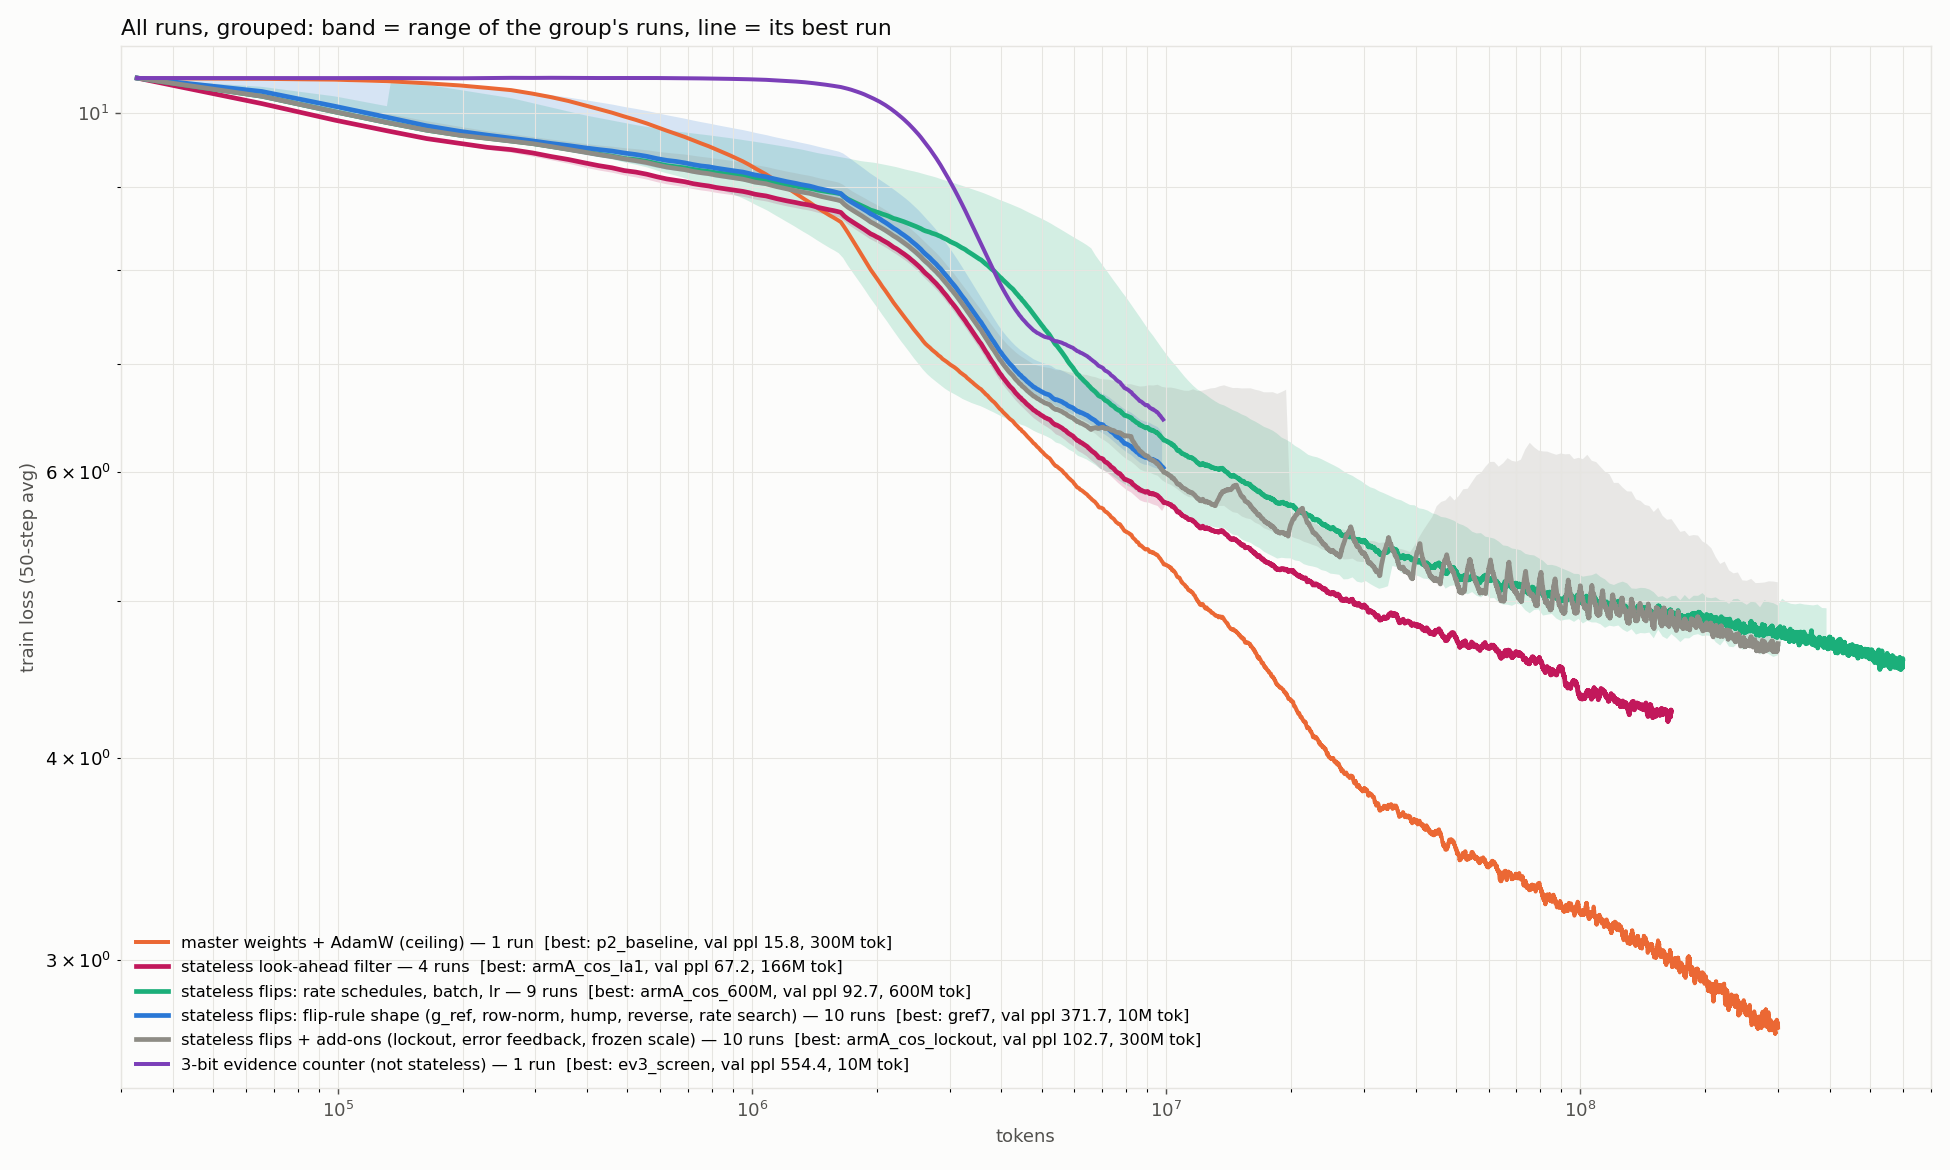
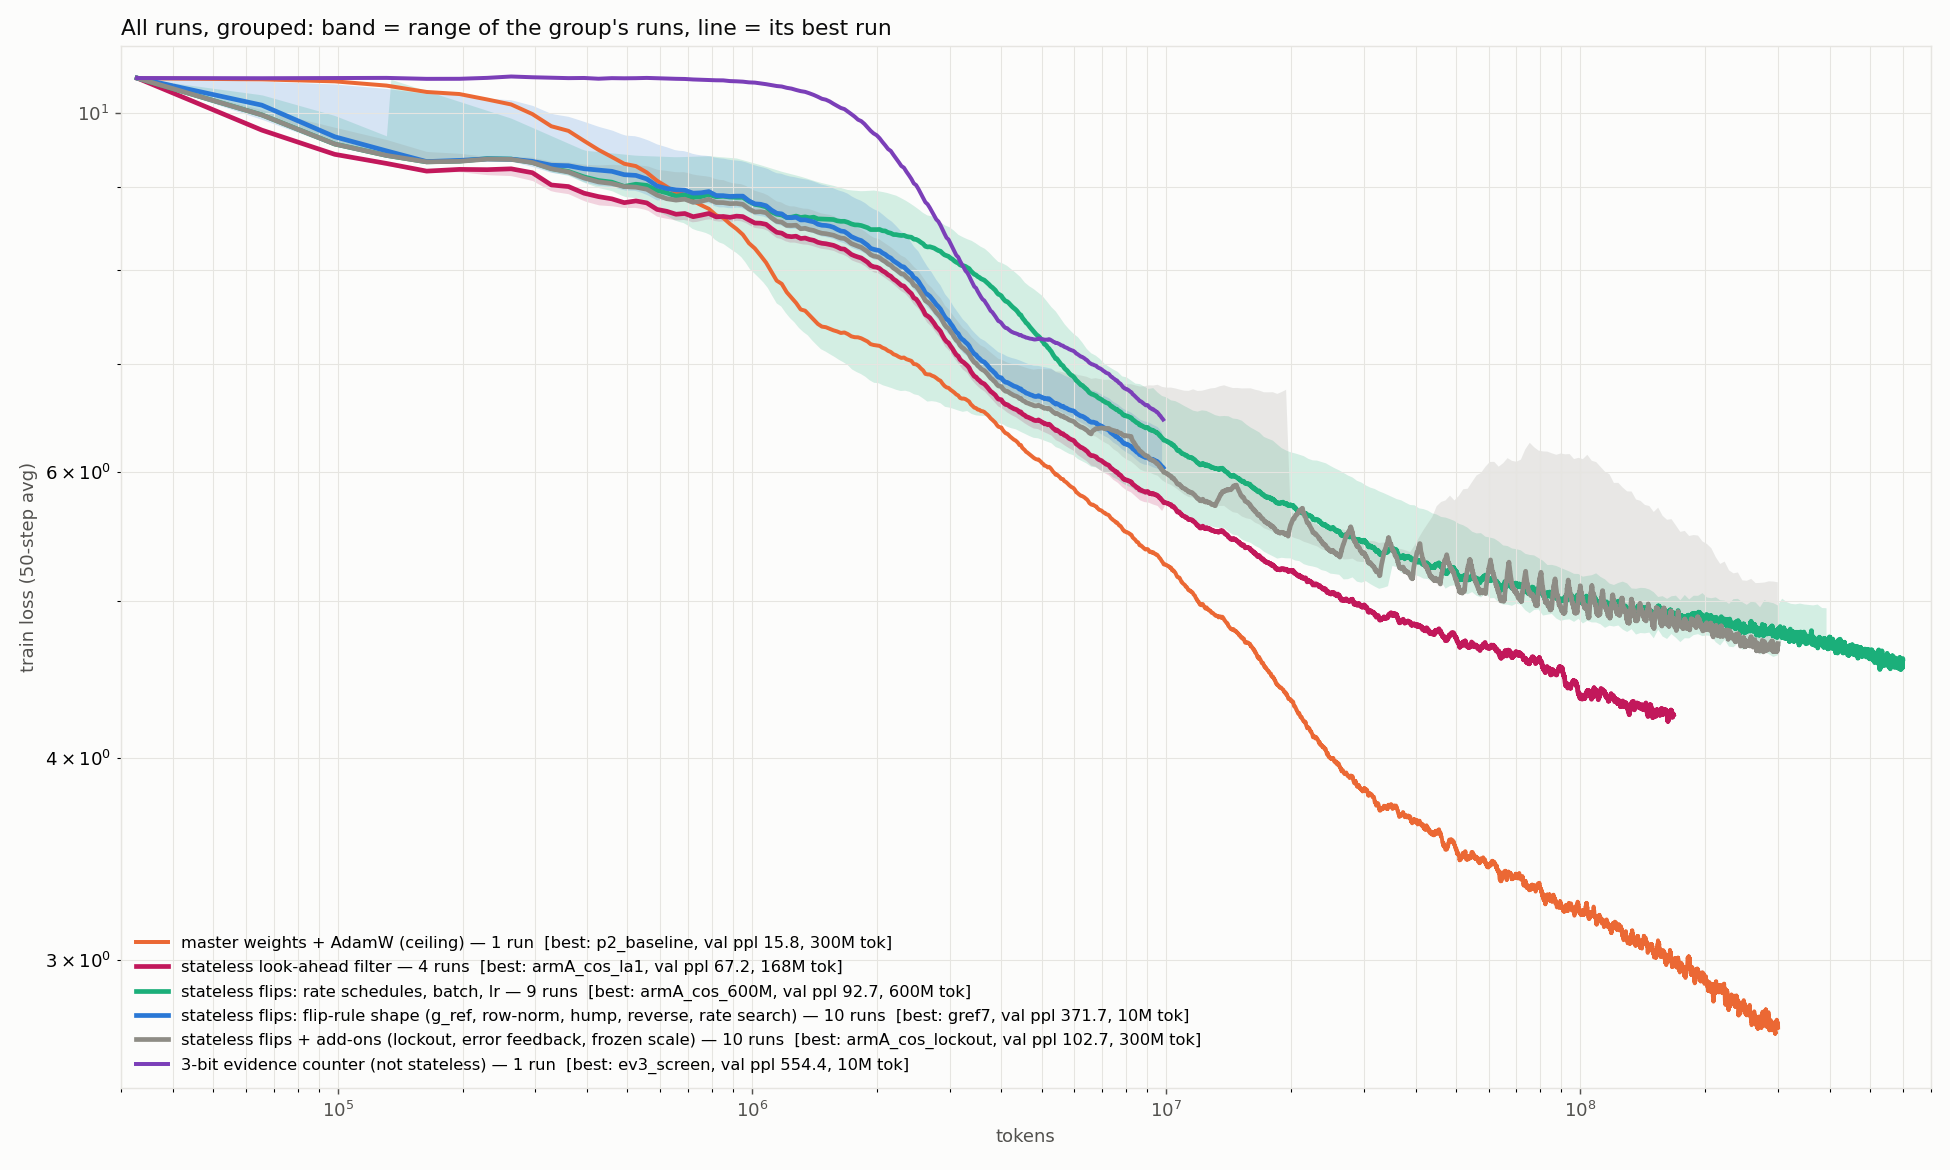
Adaptive smoothing (no smearing of the first steps); overlay flip runs past the early drop onto master
Claude-Session: https://claude.ai/code/session_01BnM9ozRQbpzv5q7zzVCEsn

Changed region(s): [[0.0615, 0.0615, 0.6462, 0.4308], [0.6462, 0.3692, 0.6769, 0.4]]

diff --git a/plot_shift.py b/plot_shift.py
@@ -1,0 +1,102 @@
+"""Flip runs with their first fast drop cut off, overlaid on the start of master.
+
+Every flip run falls quickly for the first ~10 steps (to ~9.2) and then plateaus near
+10^5.5 tokens before the main descent. Everything before the cut T0 is dropped and the
+rest is re-based onto master two ways:
+  left:  tokens counted from the cut (t - T0 + one step), so all curves start together
+  right: shifted along x so each run's loss at the cut sits on master's curve at the
+         same loss (compares "how fast from here" at equal loss)
+Master and the evidence run (no early drop) are drawn unshifted.
+
+  python3 plot_shift.py --out docs/all_runs_shifted.png
+"""
+import argparse, json, os
+import numpy as np
+import matplotlib
+matplotlib.use("Agg")
+import matplotlib.pyplot as plt
+
+SURFACE, INK, INK2, GRID = "#fcfcfb", "#0b0b0b", "#52514e", "#e6e5e1"
+T0 = 10 ** 5.5
+STEP_TOK = 32768
+GROUPS = [
+    ("master weights + AdamW (ceiling)", "#eb6834", "p2_baseline", ["p2_baseline"], False),
+    ("stateless look-ahead filter", "#c2185b", "armA_cos_la1",
+     ["armA_cos_la1", "la1", "la2", "la_rwarm"], True),
+    ("stateless flips: rate schedules, batch, lr", "#1baf7a", "armA_cos_600M",
+     ["armA_cosine", "armA_cos_600M", "armA_linear", "armA_cos_r005", "armA_cos_floor",
+      "p3b_acc1", "p3b_acc4", "armA_cos_lr15", "lr_ctl"], True),
+    ("stateless flips: flip-rule shape", "#2a78d6", "gref7",
+     ["gref1", "gref7", "gref10", "gref10_r3x", "gref25", "gref100", "rownorm", "invmag",
+      "hump", "rs_smoke"], True),
+    ("stateless flips + add-ons", "#8e8c85", "armA_cos_lockout",
+     ["armA_cos_lockout", "lo_once_t200", "lo_once_t1000", "lo_norev_t1000", "armA_cos_ef",
+      "ef_probe_a0", "ef_probe_a0.01", "ef_probe_a0.03", "ef_probe_a0.1", "armB_absscale"], True),
+    ("3-bit evidence counter (not stateless, unshifted)", "#7b3fb8", "ev3_screen",
+     ["ev3_screen"], False),
+]
+GRIDX = np.logspace(np.log10(3.0e4), np.log10(6.5e8), 400)
+
+
+def load(d):
+    f = f"checkpoints/{d}/metrics.jsonl"
+    if not os.path.exists(f): return None
+    tr = {}
+    for l in open(f):
+        r = json.loads(l)
+        if "loss" in r and "tokens" in r: tr[r["step"]] = r
+    if len(tr) < 10: return None
+    s = sorted(tr)
+    t = np.array([tr[i]["tokens"] for i in s], float)
+    L = np.array([tr[i]["loss"] for i in s])
+    c = np.cumsum(np.insert(L, 0, 0.0))
+    w = [min(50, i // 5 + 1) for i in range(len(L))]
+    return t, np.array([(c[i + 1] - c[i + 1 - w[i]]) / w[i] for i in range(len(L))])
+
+
+master = load("p2_baseline")
+
+
+def shift(t, Ls, mode):
+    k = t >= T0
+    t, Ls = t[k], Ls[k]
+    if mode == "tokens":
+        return t - t[0] + STEP_TOK, Ls
+    # loss-matched: first master token where master's loss <= this run's loss at the cut
+    mt, mL = master
+    j = np.argmax(mL <= Ls[0])
+    return t - t[0] + mt[j], Ls
+
+
+ap = argparse.ArgumentParser(); ap.add_argument("--out", default="docs/all_runs_shifted.png")
+a = ap.parse_args()
+fig, axes = plt.subplots(1, 2, figsize=(22, 9), facecolor=SURFACE)
+for ax, mode, title in ((axes[0], "tokens", f"Tokens counted from the cut at 10^5.5 (flip runs); master from 0"),
+                        (axes[1], "loss", "Flip runs slid along x so their loss at the cut sits on master's curve")):
+    for label, color, best, members, shifted in GROUPS:
+        curves = {d: load(d) for d in members}
+        curves = {d: r for d, r in curves.items() if r is not None}
+        if not curves: continue
+        if shifted:
+            curves = {d: shift(t, Ls, mode) for d, (t, Ls) in curves.items()}
+        G = np.array([np.exp(np.interp(np.log(GRIDX), np.log(t), np.log(Ls), left=np.nan, right=np.nan))
+                      for t, Ls in curves.values()])
+        n = np.sum(~np.isnan(G), axis=0); m = n >= 2
+        if m.any():
+            lo = np.nanmin(np.where(n > 0, G, np.inf), axis=0)
+            hi = np.nanmax(np.where(n > 0, G, -np.inf), axis=0)
+            ax.fill_between(GRIDX, np.where(m, lo, np.nan), np.where(m, hi, np.nan),
+                            color=color, alpha=0.18, lw=0)
+        t, Ls = curves[best]
+        ax.plot(t, Ls, color=color, lw=2.6, label=f"{label} ({len(curves)} run{'s' if len(curves) > 1 else ''}, best: {best})")
+    ax.set_xscale("log"); ax.set_yscale("log"); ax.set_xlim(3e4, 7e8); ax.set_ylim(2.5, 11)
+    ax.set_facecolor(SURFACE); ax.grid(True, which="both", color=GRID, lw=0.6)
+    ax.set_xlabel("tokens (shifted for flip runs)", color=INK2)
+    ax.set_ylabel("train loss (adaptive trailing avg)", color=INK2)
+    ax.set_title(title, color=INK, fontsize=11.5, loc="left")
+    for sp in ax.spines.values(): sp.set_color(GRID)
+    ax.tick_params(colors=INK2); ax.legend(fontsize=8.5, frameon=False, loc="lower left")
+fig.tight_layout()
+os.makedirs(os.path.dirname(a.out) or ".", exist_ok=True)
+fig.savefig(a.out, dpi=120, facecolor=SURFACE)
+print("wrote", a.out)

diff --git a/plot_all.py b/plot_all.py
@@ -45,9 +45,10 @@ def load(d):
     s = sorted(tr)
     t = np.array([tr[i]["tokens"] for i in s], float)
     L = np.array([tr[i]["loss"] for i in s])
-    k = 50
+    # trailing mean over min(50, ~20% of steps so far), so the early drop isn't smeared
     c = np.cumsum(np.insert(L, 0, 0.0))
-    Ls = np.array([(c[i + 1] - c[max(0, i - k + 1)]) / (i + 1 - max(0, i - k + 1)) for i in range(len(L))])
+    w = [min(50, i // 5 + 1) for i in range(len(L))]
+    Ls = np.array([(c[i + 1] - c[i + 1 - w[i]]) / w[i] for i in range(len(L))])
     v = [r for r in rows if "val_loss" in r]
     return t, Ls, (np.exp(v[-1]["val_loss"]) if v else None)
 

diff --git a/plot_live.py b/plot_live.py
@@ -29,8 +29,11 @@ def load(d):
 
 
 def smooth(L, k=100):
+    # trailing mean over min(k, ~20% of steps so far): a fixed window drags the
+    # starting loss into the first k points and flattens the fast early drop
     c = np.cumsum(np.insert(L, 0, 0.0))
-    return np.array([(c[i + 1] - c[max(0, i - k + 1)]) / (i + 1 - max(0, i - k + 1)) for i in range(len(L))])
+    w = [min(k, i // 5 + 1) for i in range(len(L))]
+    return np.array([(c[i + 1] - c[i + 1 - w[i]]) / w[i] for i in range(len(L))])
 
 
 ap = argparse.ArgumentParser(); ap.add_argument("--out", default="docs/lookahead_live.png")

diff --git a/plot_early.py b/plot_early.py
@@ -25,8 +25,11 @@ def load(d):
 
 
 def smooth(L, k=50):
+    # trailing mean over min(k, ~20% of steps so far): a fixed window drags the
+    # starting loss into the first k points and flattens the fast early drop
     c = np.cumsum(np.insert(L, 0, 0.0))
-    return np.array([(c[i + 1] - c[max(0, i - k + 1)]) / (i + 1 - max(0, i - k + 1)) for i in range(len(L))])
+    w = [min(k, i // 5 + 1) for i in range(len(L))]
+    return np.array([(c[i + 1] - c[i + 1 - w[i]]) / w[i] for i in range(len(L))])
 
 
 ap = argparse.ArgumentParser(); ap.add_argument("--out", default="docs/early_phase.png")
